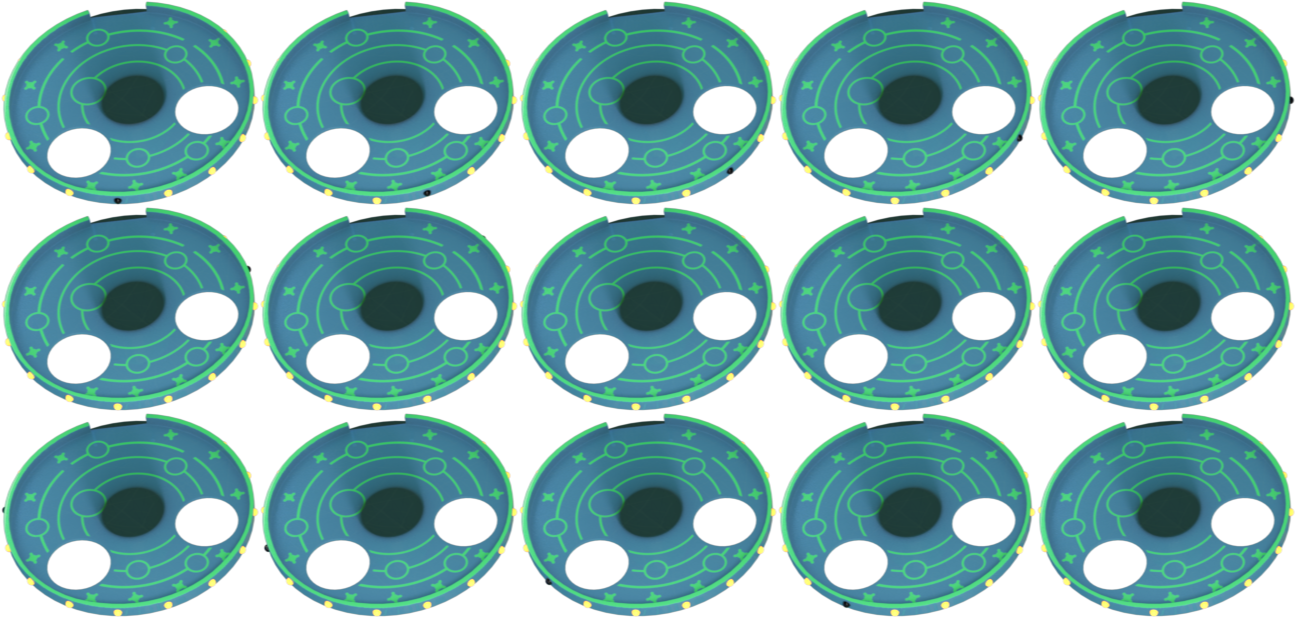
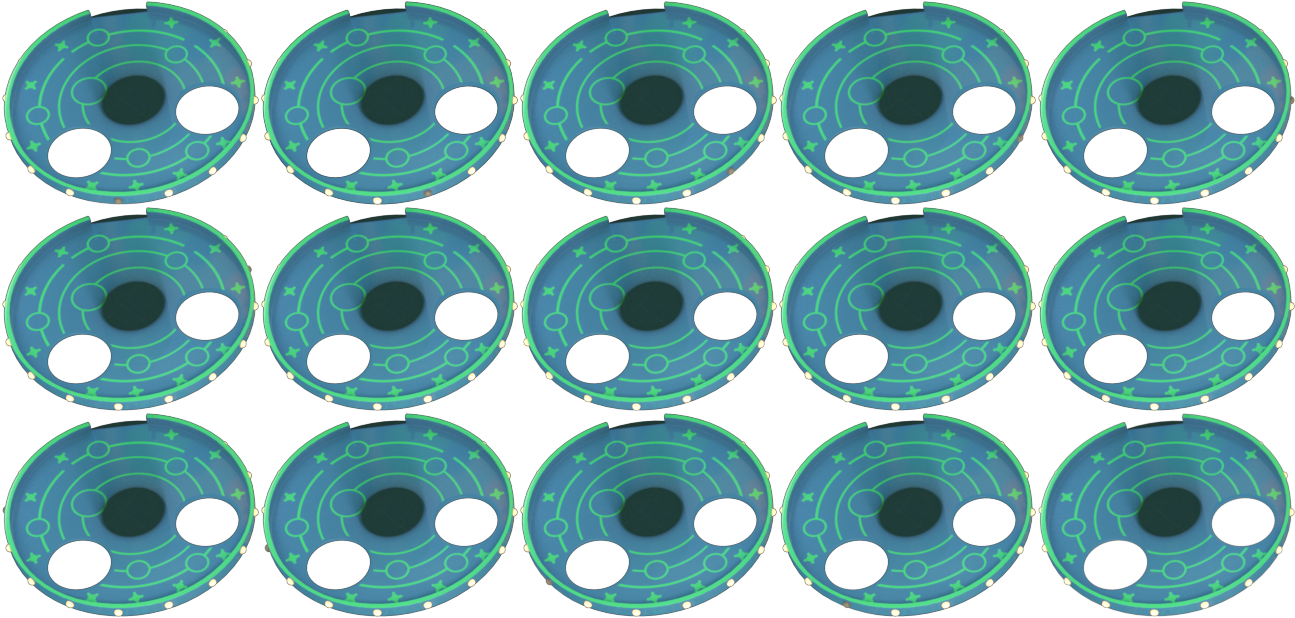
chore: swap out multiple assets (#342)
* chore: new android and saucer

* chore: new outer boundary

* chore: new computer glow

* chore: switch dash asset states

* refactor: dash nest tracing

diff --git a/packages/pinball_components/lib/src/components/sparky_computer.dart b/packages/pinball_components/lib/src/components/sparky_computer.dart
@@ -32,18 +32,18 @@ class _ComputerBase extends BodyComponent with InitialPosition, ZIndex {
   List<FixtureDef> _createFixtureDefs() {
     final leftEdge = EdgeShape()
       ..set(
-        Vector2(-14.9, -46),
-        Vector2(-15.3, -49.6),
+        Vector2(-15.1, -45.9),
+        Vector2(-15.5, -49.5),
       );
     final topEdge = EdgeShape()
       ..set(
-        Vector2(-15.3, -49.6),
-        Vector2(-10.7, -50.6),
+        leftEdge.vertex2,
+        Vector2(-10.9, -50.5),
       );
     final rightEdge = EdgeShape()
       ..set(
-        Vector2(-10.7, -50.6),
-        Vector2(-9, -47.2),
+        topEdge.vertex2,
+        Vector2(-9.2, -47.1),
       );
 
     return [
@@ -67,7 +67,7 @@ class _ComputerBaseSpriteComponent extends SpriteComponent with HasGameRef {
   _ComputerBaseSpriteComponent()
       : super(
           anchor: Anchor.center,
-          position: Vector2(-12.1, -48.15),
+          position: Vector2(-12.24, -48.15),
         );
 
   @override
@@ -89,7 +89,7 @@ class _ComputerTopSpriteComponent extends SpriteComponent
   _ComputerTopSpriteComponent()
       : super(
           anchor: Anchor.center,
-          position: Vector2(-12.52, -49.37),
+          position: Vector2(-12.66, -49.37),
         ) {
     zIndex = ZIndexes.computerTop;
   }
@@ -113,9 +113,9 @@ class _ComputerGlowSpriteComponent extends SpriteComponent
   _ComputerGlowSpriteComponent()
       : super(
           anchor: Anchor.center,
-          position: Vector2(7.4, 10),
+          position: Vector2(4.2, 11),
         ) {
-    zIndex = ZIndexes.computerGlow;
+    zIndex = ZIndexes.computerGlow + 4;
   }
 
   @override

diff --git a/packages/pinball_components/lib/src/components/dash_nest_bumper/dash_nest_bumper.dart b/packages/pinball_components/lib/src/components/dash_nest_bumper/dash_nest_bumper.dart
@@ -60,10 +60,10 @@ class DashNestBumper extends BodyComponent with InitialPosition {
     Iterable<Component>? children,
   }) : this._(
           majorRadius: 3,
-          minorRadius: 2.5,
+          minorRadius: 2.2,
           activeAssetPath: Assets.images.dash.bumper.a.active.keyName,
           inactiveAssetPath: Assets.images.dash.bumper.a.inactive.keyName,
-          spritePosition: Vector2(0.35, -1.2),
+          spritePosition: Vector2(0.3, -1.3),
           bloc: DashNestBumperCubit(),
           children: [
             ...?children,
@@ -75,11 +75,11 @@ class DashNestBumper extends BodyComponent with InitialPosition {
   DashNestBumper.b({
     Iterable<Component>? children,
   }) : this._(
-          majorRadius: 3,
-          minorRadius: 2.5,
+          majorRadius: 3.1,
+          minorRadius: 2.2,
           activeAssetPath: Assets.images.dash.bumper.b.active.keyName,
           inactiveAssetPath: Assets.images.dash.bumper.b.inactive.keyName,
-          spritePosition: Vector2(0.35, -1.2),
+          spritePosition: Vector2(0.4, -1.2),
           bloc: DashNestBumperCubit(),
           children: [
             ...?children,

diff --git a/packages/pinball_components/lib/src/components/android_spaceship/android_spaceship.dart b/packages/pinball_components/lib/src/components/android_spaceship/android_spaceship.dart
@@ -122,7 +122,7 @@ class _SpaceshipSaucerSpriteAnimationComponent extends SpriteAnimationComponent
       SpriteAnimationData.sequenced(
         amount: amountPerRow * amountPerColumn,
         amountPerRow: amountPerRow,
-        stepTime: 1 / 24,
+        stepTime: 1 / 12,
         textureSize: textureSize,
       ),
     );
